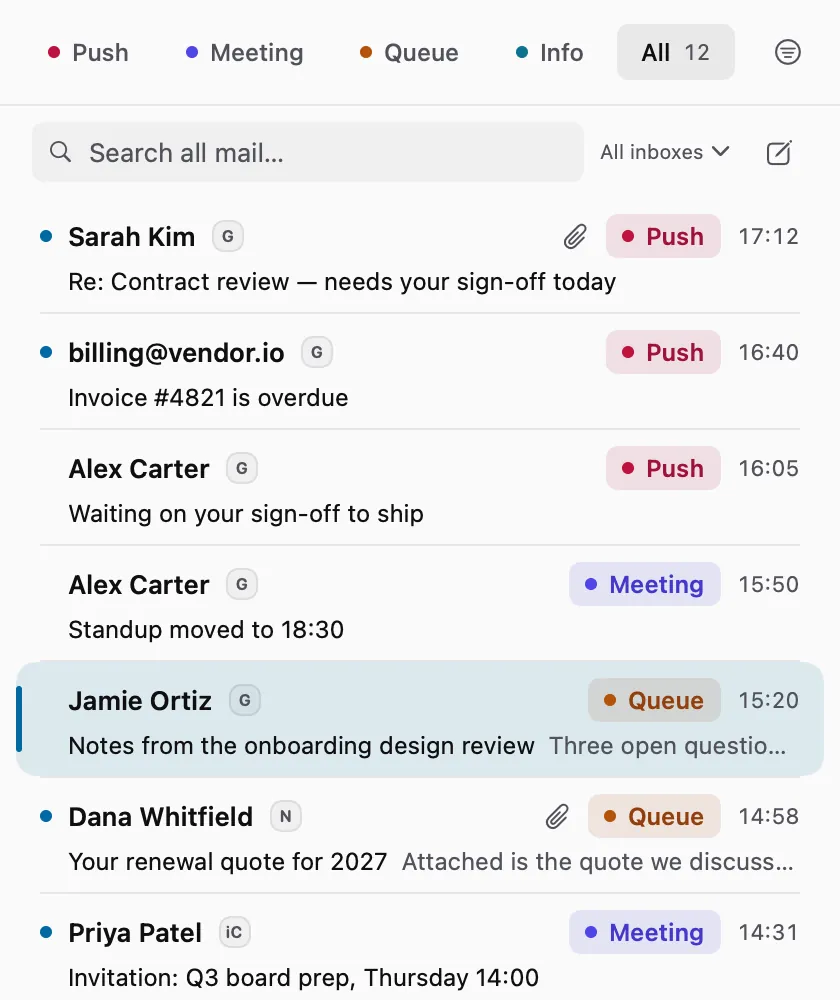
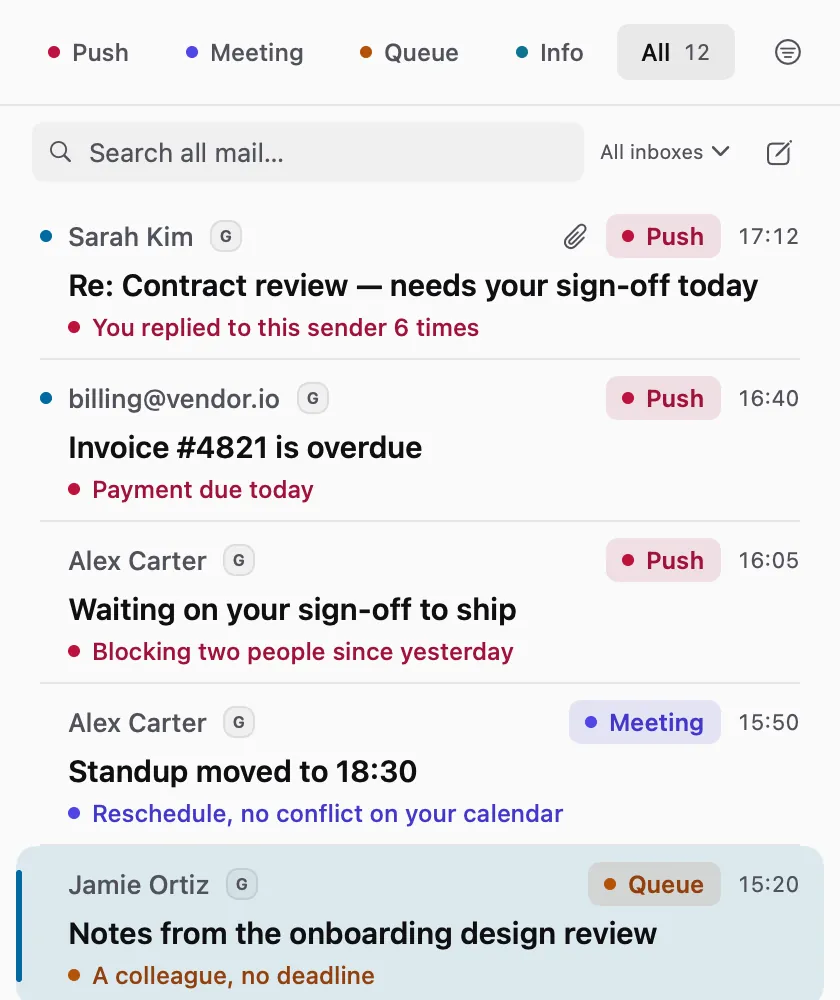
feat(website): refresh app captures to the 3-line rows, Korean phone capture, CTA/footer/blog polish
- Re-render light + ko-light captures from current main (3-line mail rows,
  72h PUSH block); add native-resolution approvals-*-840 to the #day tile
- /ko/ phone mail capture is now Korean (mail-m-ko-light-840); make.sh writes
  -m- crops for both variants; lockstep normalizes -m- language tags
- Pipeline and banner renderer are light-only; drop 29 unreferenced dark and
  today-m captures (app-2026-10: 2,088,326 -> 1,063,392 bytes)
- Final CTA sky fades at its bottom edge; phone CTAs stack at one width
- Footer pairs link groups two by two below 1000px
- Blog index uses the shared sub-hero band and the wrap's left edge

diff --git a/website/landing.css b/website/landing.css
@@ -419,16 +419,25 @@ html[lang=ko] .note-q p,html[lang=ja] .note-q p,html[lang=zh] .note-q p{font-wei
 /* ── Final CTA ───────────────────────────────────── */
 .final{position:relative;text-align:center;overflow:hidden;padding:clamp(110px,14vw,180px) 0}
 .final .hero-sky{inset:0;height:100%;transform:scaleY(-1);
-  -webkit-mask-image:linear-gradient(180deg,#000 0%,#000 50%,transparent 100%);
-          mask-image:linear-gradient(180deg,#000 0%,#000 50%,transparent 100%)}
+  /* The sky is flipped, so the first stop is the section's BOTTOM edge: it
+     fades back to paper there too, instead of a hard cut against the footer
+     rule. */
+  -webkit-mask-image:linear-gradient(180deg,transparent 0%,#000 24%,#000 50%,transparent 100%);
+          mask-image:linear-gradient(180deg,transparent 0%,#000 24%,#000 50%,transparent 100%)}
 .final .wrap{position:relative;z-index:2}
 .final h2{margin-left:auto;margin-right:auto;font-size:clamp(var(--fs-32),5.2vw,var(--fs-56));max-width:15ch}
 .final .meta{margin-top:22px}
+/* Phone: the two CTAs stack at one shared width rather than two pills of
+   different lengths centred under each other. */
+@media (max-width:640px){.final .actions{flex-direction:column;align-items:stretch;max-width:360px;margin:0 auto}}
 
 /* ── Footer ──────────────────────────────────────── */
 .foot{border-top:1px solid var(--line);padding:56px 0 40px;font-size:var(--fs-14);color:var(--ink-2)}
-.foot-grid{display:grid;grid-template-columns:1fr;gap:28px}
-@media (min-width:640px){.foot-grid{grid-template-columns:repeat(2,minmax(0,1fr))}}
+.foot-grid{display:grid;grid-template-columns:repeat(2,minmax(0,1fr));gap:28px 24px}
+/* Below the 5-column desktop row the brand block takes its own full row and
+   the four link groups pair up two by two (a phone no longer scrolls one
+   long column). */
+@media (max-width:999px){.foot-grid > :first-child{grid-column:1 / -1}}
 @media (min-width:1000px){.foot-grid{grid-template-columns:minmax(0,1.6fr) repeat(4,minmax(0,1fr))}}
 .foot .brand{display:inline-flex;align-items:center;min-height:44px;min-width:44px;font-weight:700;color:var(--ink);text-decoration:none;font-size:var(--fs-16);letter-spacing:-.015em}
 .foot-note{margin:10px 0 0;max-width:30ch;line-height:1.5}

diff --git a/website/ko/index.html b/website/ko/index.html
@@ -270,7 +270,7 @@
       <div class="win">
         <div class="win-bar" aria-hidden="true"><i></i><i></i><i></i></div>
         <picture>
-        <source media="(max-width:640px)" sizes="94vw" width="840" height="1000" srcset="/media/app-2026-10/mail-m-light-840.webp 840w">
+        <source media="(max-width:640px)" sizes="94vw" width="840" height="1000" srcset="/media/app-2026-10/mail-m-ko-light-840.webp 840w">
         <img src="/media/app-2026-10/mail-ko-light-2000.webp"
              srcset="/media/app-2026-10/mail-ko-light-1200.webp 1200w, /media/app-2026-10/mail-ko-light-2000.webp 2000w"
              sizes="(min-width:1240px) 1116px, 94vw" width="2000" height="1250" loading="lazy" decoding="async"
@@ -333,7 +333,7 @@
           <div class="win-bar" aria-hidden="true"><i></i><i></i><i></i></div>
           <picture>
           <img src="/media/app-2026-10/approvals-ko-light-656.webp"
-               srcset="/media/app-2026-10/approvals-ko-light-400.webp 400w, /media/app-2026-10/approvals-ko-light-656.webp 656w"
+               srcset="/media/app-2026-10/approvals-ko-light-400.webp 400w, /media/app-2026-10/approvals-ko-light-656.webp 656w, /media/app-2026-10/approvals-ko-light-840.webp 840w"
                sizes="(min-width:1240px) 700px, (min-width:900px) 60vw, 90vw" width="656" height="609" loading="lazy" decoding="async"
                alt="Mac 어시스턴트의 승인 패널: 답장과 일정 생성 두 건이 승인과 거절 버튼과 함께 대기 중입니다."></picture>
         </div></div>

diff --git a/website/fr/index.html b/website/fr/index.html
@@ -334,7 +334,7 @@
           <div class="win-bar" aria-hidden="true"><i></i><i></i><i></i></div>
           <picture>
           <img src="/media/app-2026-10/approvals-light-656.webp"
-               srcset="/media/app-2026-10/approvals-light-400.webp 400w, /media/app-2026-10/approvals-light-656.webp 656w"
+               srcset="/media/app-2026-10/approvals-light-400.webp 400w, /media/app-2026-10/approvals-light-656.webp 656w, /media/app-2026-10/approvals-light-840.webp 840w"
                sizes="(min-width:1240px) 700px, (min-width:900px) 60vw, 90vw" width="656" height="609" loading="lazy" decoding="async"
                alt="Le panneau des approbations de l’Assistant sur Mac : deux approbations en attente, une réponse et un événement d’agenda, chacune avec Approuver et Refuser."></picture>
         </div></div>

diff --git a/website/es/index.html b/website/es/index.html
@@ -334,7 +334,7 @@
           <div class="win-bar" aria-hidden="true"><i></i><i></i><i></i></div>
           <picture>
           <img src="/media/app-2026-10/approvals-light-656.webp"
-               srcset="/media/app-2026-10/approvals-light-400.webp 400w, /media/app-2026-10/approvals-light-656.webp 656w"
+               srcset="/media/app-2026-10/approvals-light-400.webp 400w, /media/app-2026-10/approvals-light-656.webp 656w, /media/app-2026-10/approvals-light-840.webp 840w"
                sizes="(min-width:1240px) 700px, (min-width:900px) 60vw, 90vw" width="656" height="609" loading="lazy" decoding="async"
                alt="El panel de aprobaciones del asistente en Mac: dos aprobaciones pendientes, una respuesta y un evento de calendario, cada una con Aprobar y Rechazar."></picture>
         </div></div>

diff --git a/website/de/index.html b/website/de/index.html
@@ -334,7 +334,7 @@
           <div class="win-bar" aria-hidden="true"><i></i><i></i><i></i></div>
           <picture>
           <img src="/media/app-2026-10/approvals-light-656.webp"
-               srcset="/media/app-2026-10/approvals-light-400.webp 400w, /media/app-2026-10/approvals-light-656.webp 656w"
+               srcset="/media/app-2026-10/approvals-light-400.webp 400w, /media/app-2026-10/approvals-light-656.webp 656w, /media/app-2026-10/approvals-light-840.webp 840w"
                sizes="(min-width:1240px) 700px, (min-width:900px) 60vw, 90vw" width="656" height="609" loading="lazy" decoding="async"
                alt="Der Freigabebereich des Assistenten auf dem Mac: zwei offene Freigaben, eine Antwort und ein Kalendertermin, jeweils mit Freigeben und Ablehnen."></picture>
         </div></div>

diff --git a/website/ja/index.html b/website/ja/index.html
@@ -332,7 +332,7 @@
           <div class="win-bar" aria-hidden="true"><i></i><i></i><i></i></div>
           <picture>
           <img src="/media/app-2026-10/approvals-light-656.webp"
-               srcset="/media/app-2026-10/approvals-light-400.webp 400w, /media/app-2026-10/approvals-light-656.webp 656w"
+               srcset="/media/app-2026-10/approvals-light-400.webp 400w, /media/app-2026-10/approvals-light-656.webp 656w, /media/app-2026-10/approvals-light-840.webp 840w"
                sizes="(min-width:1240px) 700px, (min-width:900px) 60vw, 90vw" width="656" height="609" loading="lazy" decoding="async"
                alt="Macのアシスタントの承認パネル：返信と予定作成の2件が承認・拒否ボタン付きで待機しています。"></picture>
         </div></div>

diff --git a/website/blog/index.html b/website/blog/index.html
@@ -125,10 +125,14 @@
 </div></nav>
 
 <main id="main">
+<header class="sub-hero">
+  <div class="wrap">
+    <h1>Notes from the <span class="ser">workshop</span>.</h1>
+    <p class="lead">Engineering notes from building an email firewall in the open. House rule: a number only appears here if you can re-run it from the repo — and when one stops reproducing, it comes down and we say so.</p>
+  </div>
+</header>
 <div class="wrap">
-<div class="article">
-  <h1>Notes from the <em>workshop</em>.</h1>
-  <p class="thesis">Engineering notes from building an email firewall in the open. House rule: a number only appears here if you can re-run it from the repo — and when one stops reproducing, it comes down and we say so.</p>
+<div class="article article-index">
 
   <ul class="postlist">
     <li>

diff --git a/website/index.html b/website/index.html
@@ -334,7 +334,7 @@
           <div class="win-bar" aria-hidden="true"><i></i><i></i><i></i></div>
           <picture>
           <img src="/media/app-2026-10/approvals-light-656.webp"
-               srcset="/media/app-2026-10/approvals-light-400.webp 400w, /media/app-2026-10/approvals-light-656.webp 656w"
+               srcset="/media/app-2026-10/approvals-light-400.webp 400w, /media/app-2026-10/approvals-light-656.webp 656w, /media/app-2026-10/approvals-light-840.webp 840w"
                sizes="(min-width:1240px) 700px, (min-width:900px) 60vw, 90vw" width="656" height="609" loading="lazy" decoding="async"
                alt="The Approvals pane of the Assistant on Mac: two approvals waiting, a reply and a calendar event, each with Approve and Decline."></picture>
         </div></div>

diff --git a/website/zh/index.html b/website/zh/index.html
@@ -332,7 +332,7 @@
           <div class="win-bar" aria-hidden="true"><i></i><i></i><i></i></div>
           <picture>
           <img src="/media/app-2026-10/approvals-light-656.webp"
-               srcset="/media/app-2026-10/approvals-light-400.webp 400w, /media/app-2026-10/approvals-light-656.webp 656w"
+               srcset="/media/app-2026-10/approvals-light-400.webp 400w, /media/app-2026-10/approvals-light-656.webp 656w, /media/app-2026-10/approvals-light-840.webp 840w"
                sizes="(min-width:1240px) 700px, (min-width:900px) 60vw, 90vw" width="656" height="609" loading="lazy" decoding="async"
                alt="Mac 上助手的批准面板：两项待批准事项（一封回复和一个日历事件），各有批准和拒绝按钮。"></picture>
         </div></div>

diff --git a/website/subpage.css b/website/subpage.css
@@ -160,3 +160,10 @@ html[lang=ko] .article thead th{letter-spacing:.02em}
 .article .postlist a.pt:hover{color:var(--accent)}
 .article .postlist .meta{display:block;margin:0}
 .article .postlist p{margin:8px 0 0;font-size:var(--fs-16);line-height:1.6}
+/* Blog index: the hero is the shared .sub-hero band and the list starts on
+   the same left edge as the nav, the footer and every other subpage, instead
+   of a centred post-width column. */
+.article.article-index{margin:0;max-width:820px;padding-top:clamp(48px,6vw,72px)}
+.article-index .postlist{margin-top:0;border-top:0}
+.article-index .postlist li:first-child{padding-top:0}
+.article-index .checked{max-width:none}
